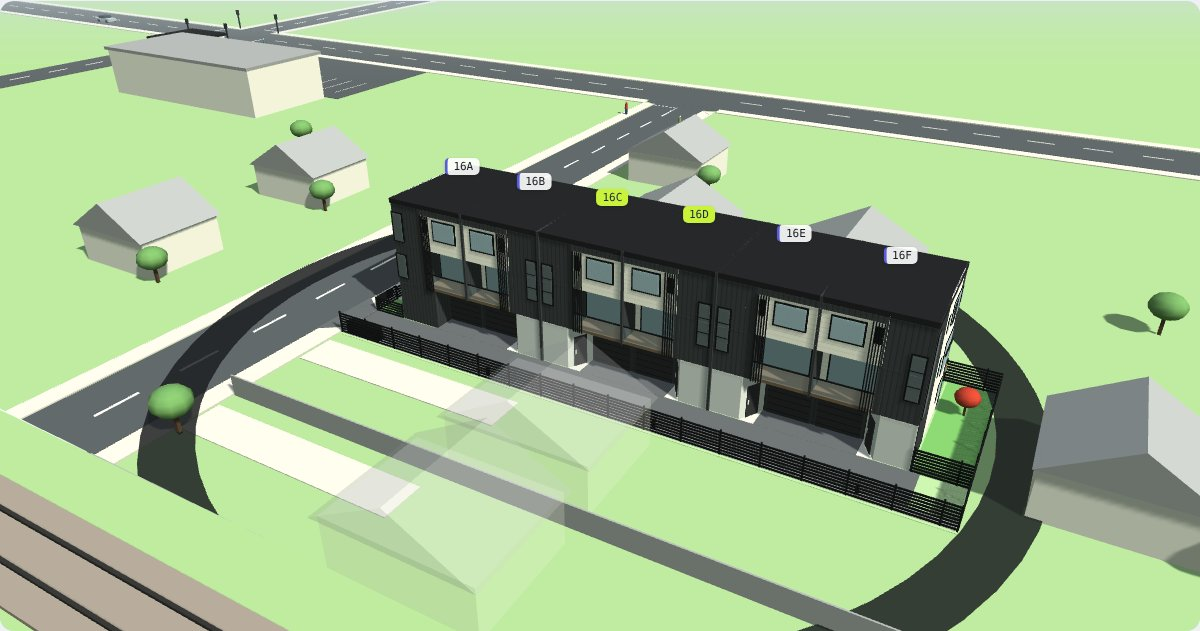
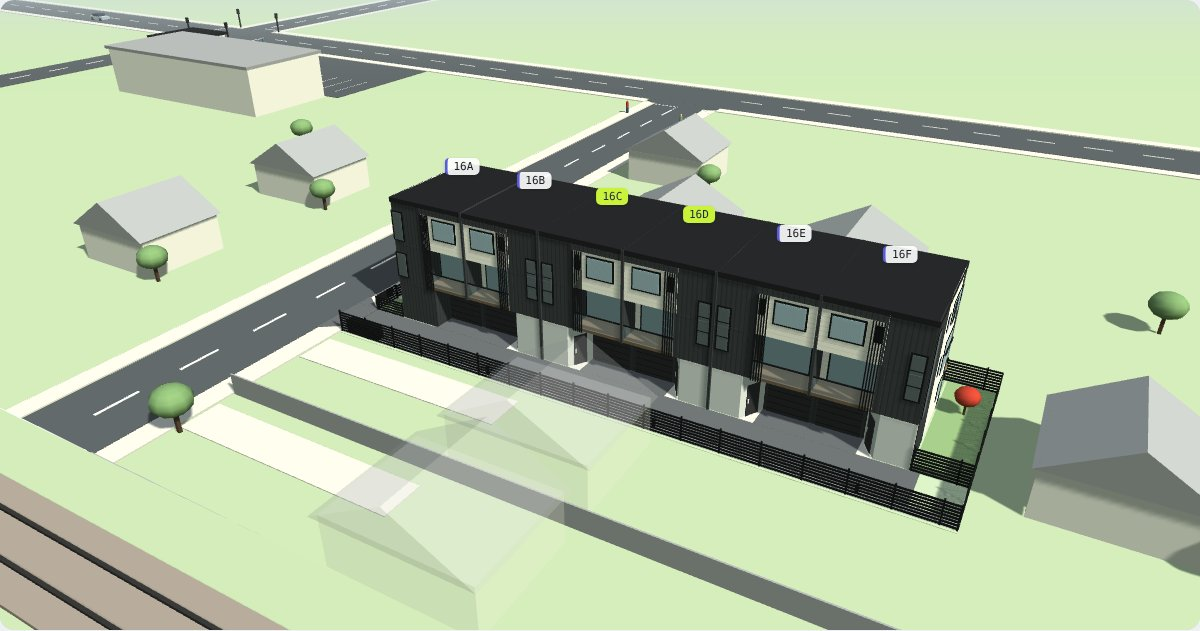
Audit fixes: sun exposure, phone sun bar, driveway pick, fresh preview image
Claude-Session: https://claude.ai/code/session_01L6PSawkXJ8TKGtQQPDLkYW

diff --git a/index.html b/index.html
@@ -86,7 +86,8 @@ button:focus-visible{outline:2px solid var(--lease);outline-offset:2px}
   .scene .tourbar{bottom:12px}
   .scene.open .tourbar{bottom:52px}
   .scene .skey{top:auto;bottom:12px;right:12px}
-  .scene:has(#tourcap:not([hidden])) .skey{display:none}
+  .scene:has(#tourcap:not([hidden])) .skey,.scene:has(#sunbar:not([hidden])) .skey,.scene:has(#sunbar:not([hidden])) .jump{display:none!important}
+  .scene .sunbar{bottom:12px}
 }
 .compass{padding:5px;width:34px;height:34px;display:inline-flex;align-items:center;justify-content:center}
 .compass svg{display:block}
@@ -900,7 +901,8 @@ for(let k=0;k<5;k++) for(let i=0;i<3;i++){
 
 // JOAL (Lot 7) on the SH1 side of the terrace
 const joal=bx(-20.5,18.6,0,0.07,-7.6,-4.6,M.joal,site);   // Lot 7 driveway, 3.0 m
-bx(-20.5,21.2,0,0.07,-8.3,-7.6,M.chips,site);               // edge strip: bollards and parcel hub joal.userData.pick='joal';
+bx(-20.5,21.2,0,0.07,-8.3,-7.6,M.chips,site);               // edge strip: bollards and parcel hub
+joal.userData.pick='joal';
 const bulbs=[];
 [-20,-8,4,16].forEach(x=>{box(0.18,0.9,0.18,M.black,x,0.45,-7.95,site);const b=new THREE.Mesh(new THREE.BoxGeometry(0.2,0.12,0.2),lamp);b.position.set(x,0.85,-7.95);site.add(b);bulbs.push(b);});
 // matte black horizontal slat fences
@@ -1287,7 +1289,7 @@ function applySun(){
   const dir=NORTH.clone().multiplyScalar(Math.cos(az)).addScaledVector(EAST,Math.sin(az)).multiplyScalar(Math.cos(el)).setY(Math.sin(el));
   sun.position.copy(dir.multiplyScalar(140));
   const up=Math.max(0,Math.sin(el)), warm=Math.min(1,up*3);
-  sun.intensity=el>0?0.25+0.75*Math.min(1,up*2.2):0.03; hemi.intensity=0.3+0.45*Math.min(1,up*3);
+  sun.intensity=el>0?0.22+0.6*Math.min(1,up*2.2):0.03; hemi.intensity=0.3+0.38*Math.min(1,up*3);
   sun.color.setRGB(1,0.78+0.2*warm,0.6+0.36*warm);
   const bg=new THREE.Color(0x18222b).lerp(new THREE.Color(0xcfdde4),Math.min(1,0.15+up*3));
   scene.background=bg; scene.fog.color.copy(bg); sceneEl.style.background='#'+bg.getHexString();
